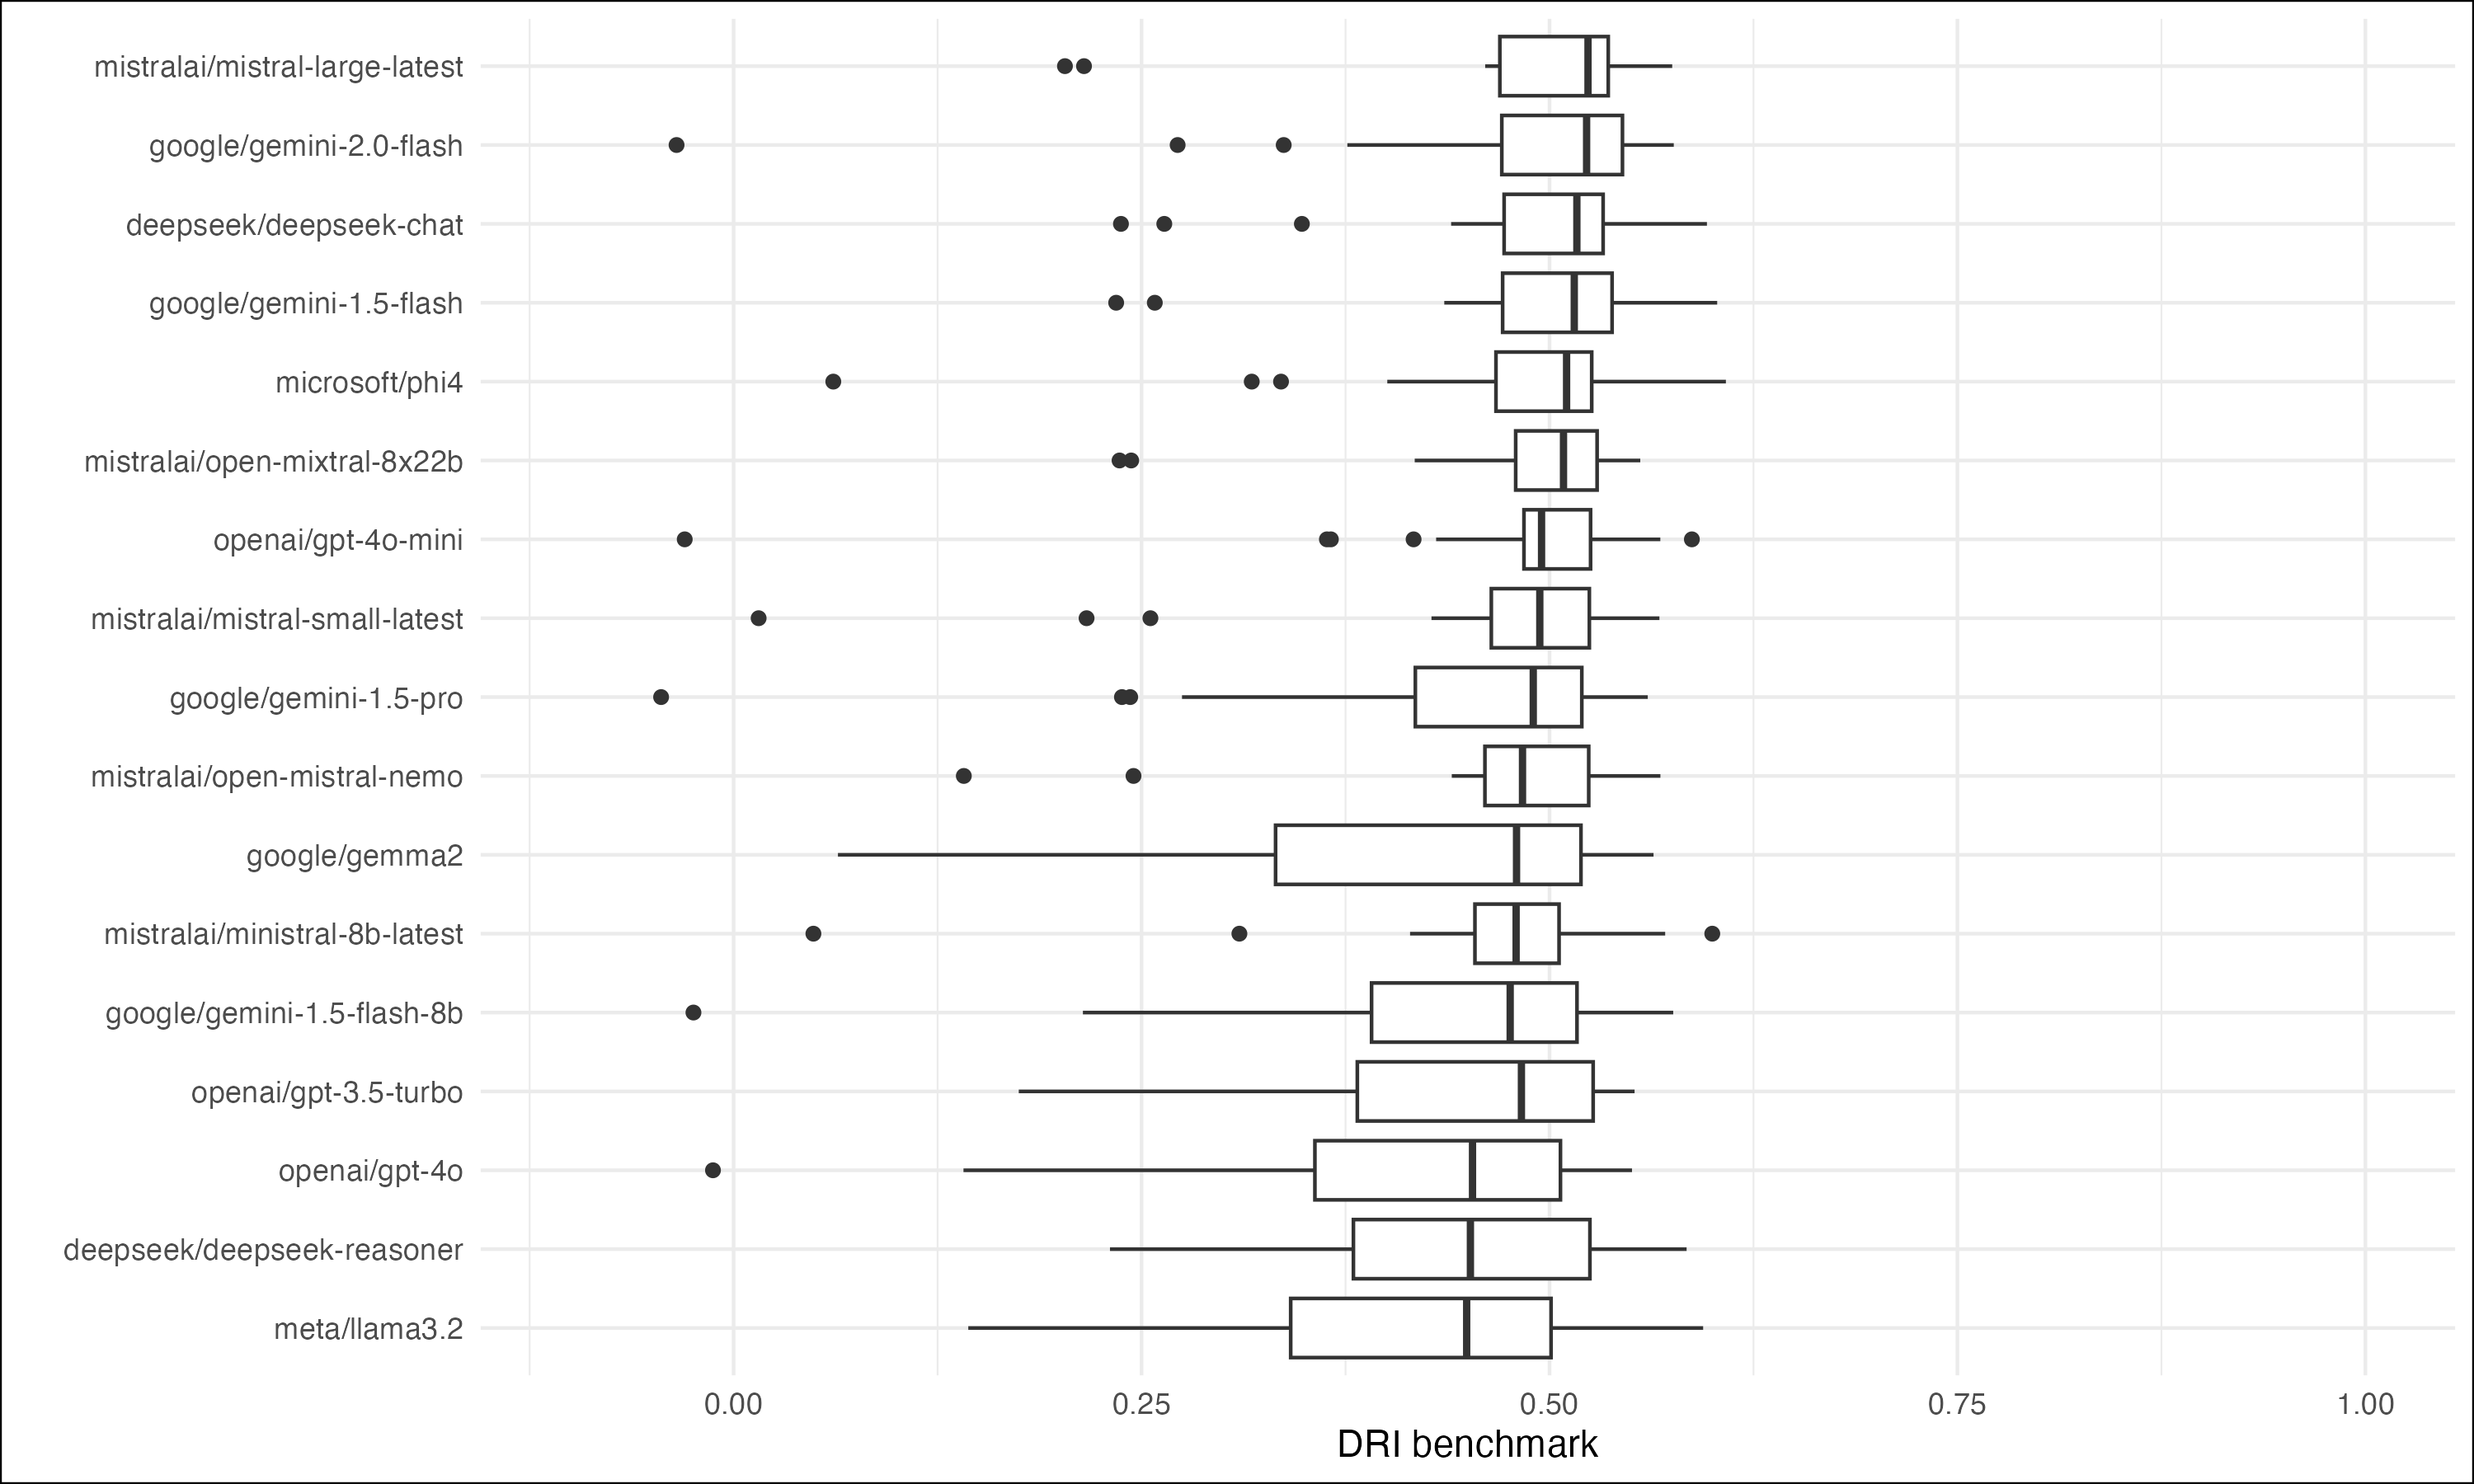
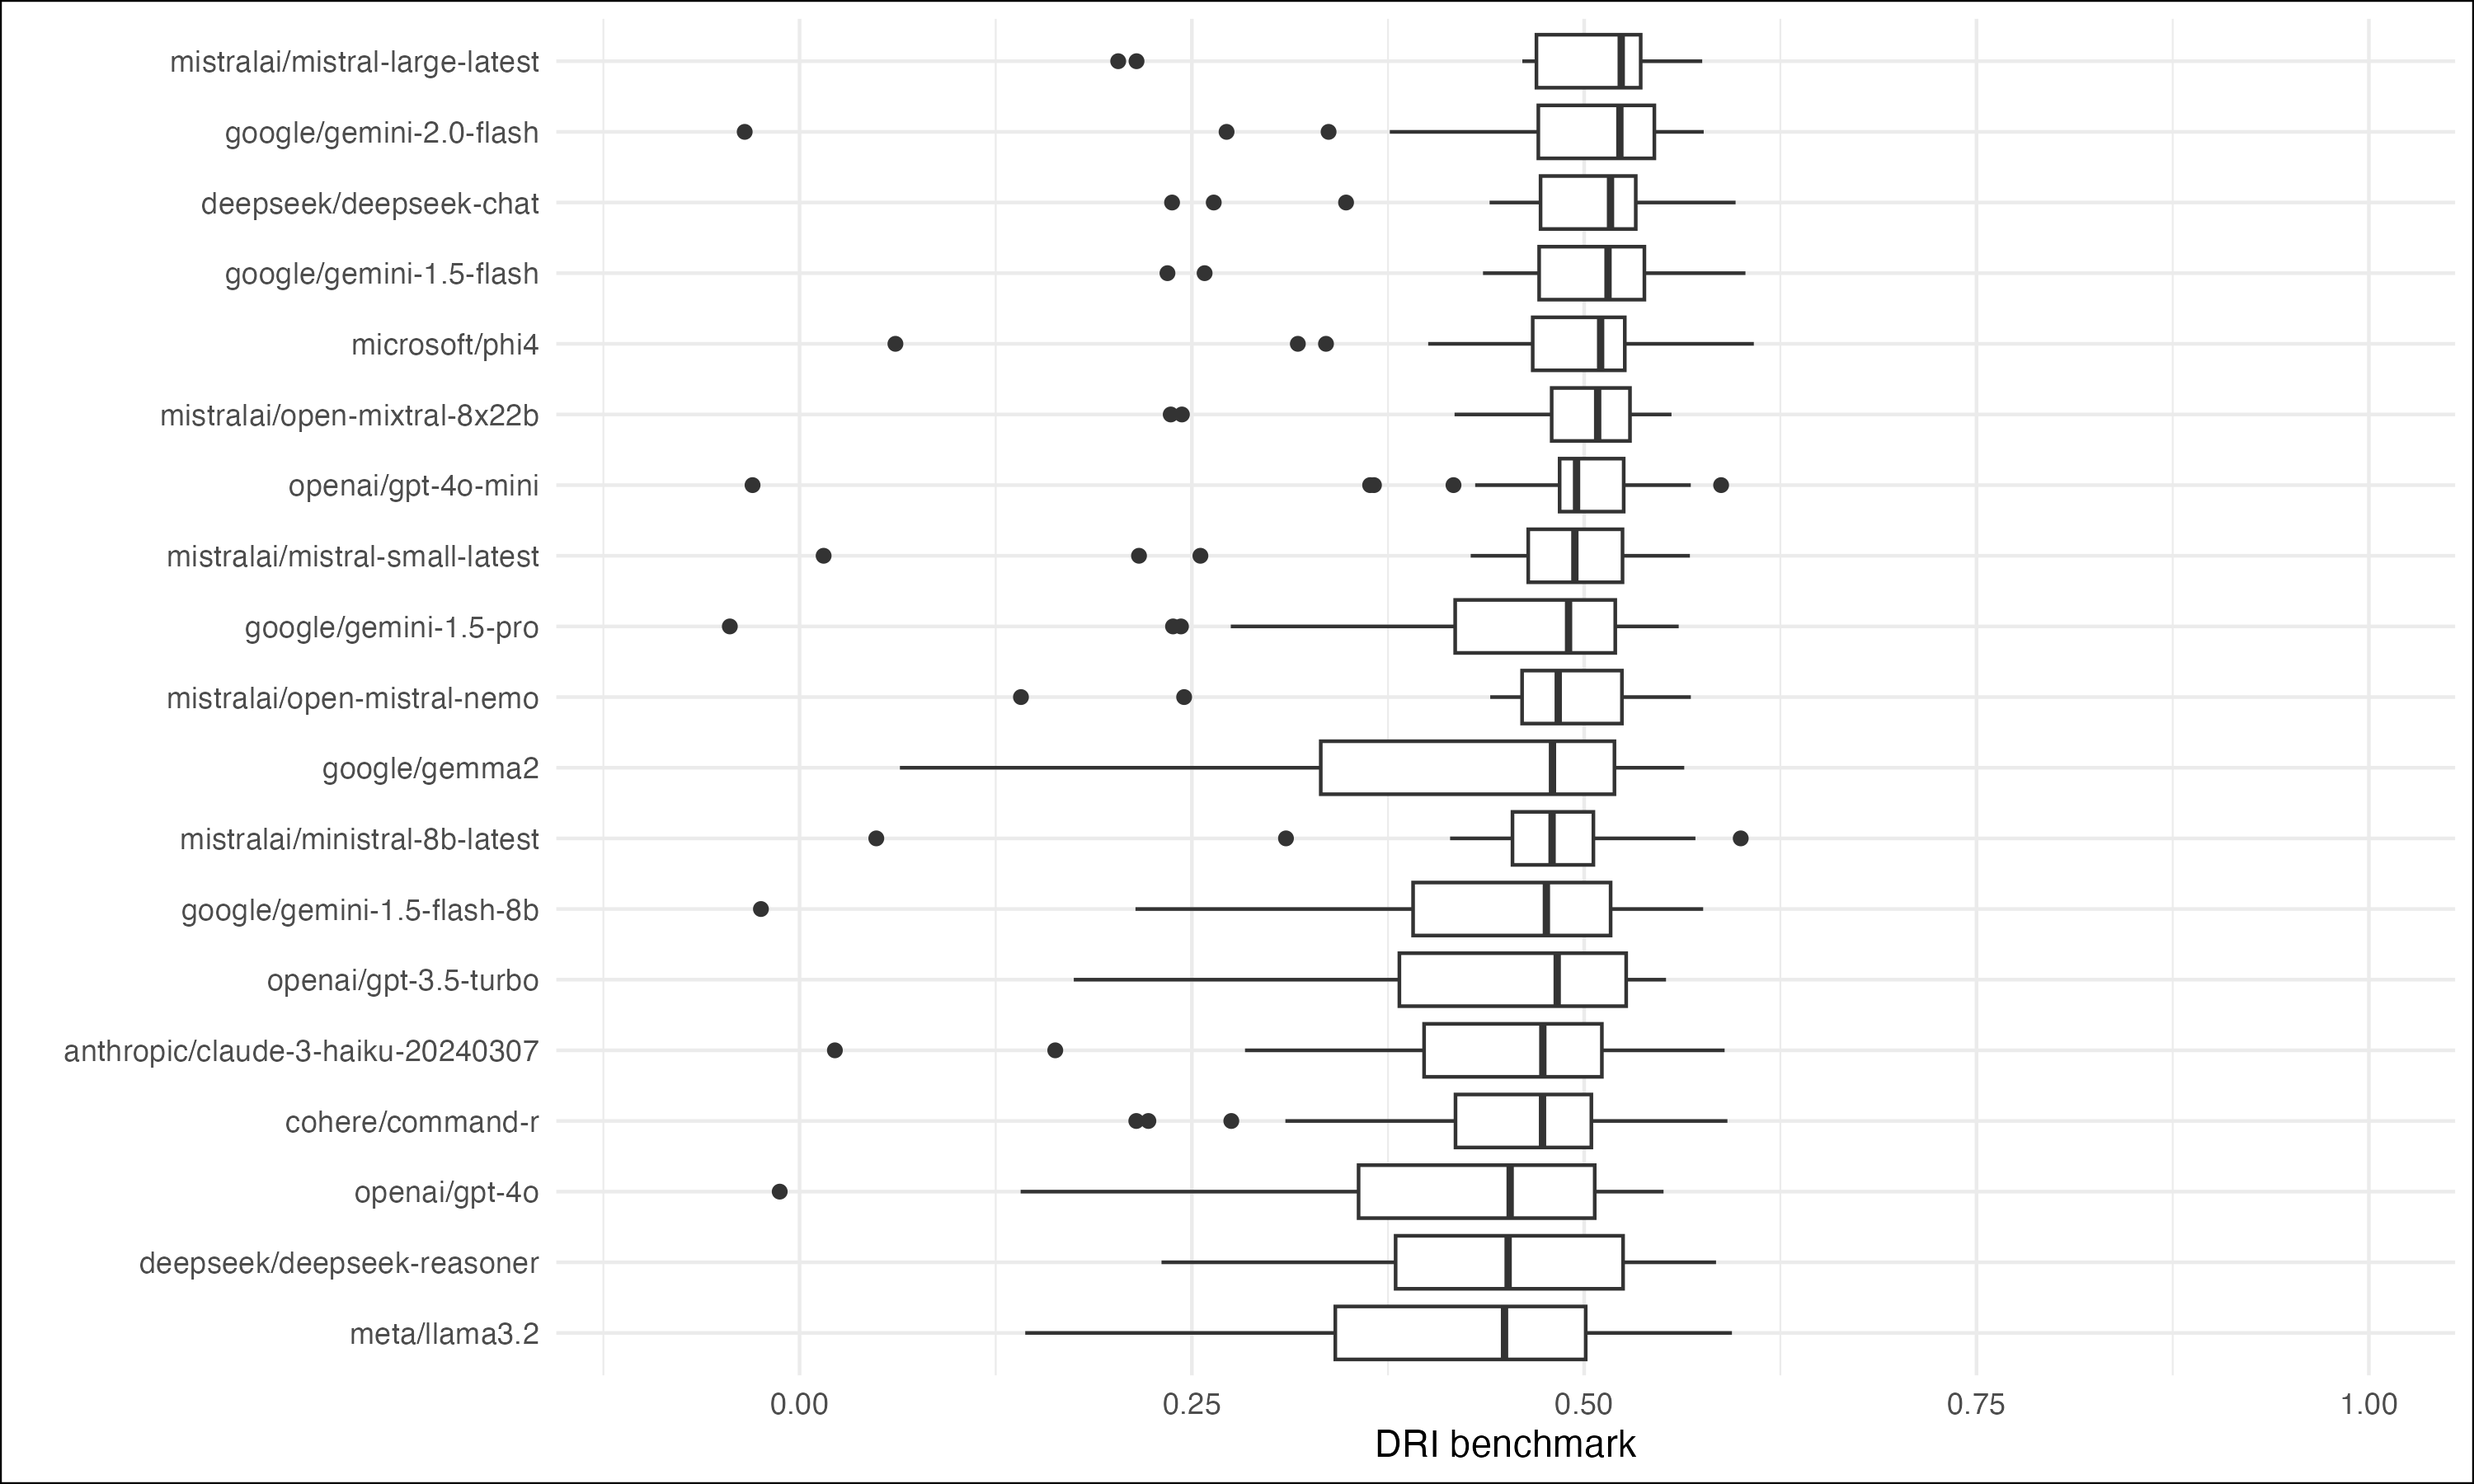
added cohere and anthropic data

diff --git a/py/generate_llm_data.py b/py/generate_llm_data.py
@@ -56,7 +56,7 @@ surveys_success = {survey_name: 0 for survey_name in surveys}
 # execurtion params
 iterations = 10
 llm_provider = data_anthropic
-model = "claude-3-haiku-20240307"
+model = "claude-3-5-haiku-20241022"
 temperature = 0
 
 model_info = get_model_info(model)
@@ -221,6 +221,7 @@ print(f"Elapsed time: {et_summary:.2f}{et_summary_unit}")
 print(f"Average time per completion: {time_per_completion:.2f}s")
 print(f"=============================================\n")
 
+# FIXME: flaky function!
 log_execution(
     provider,
     model,
